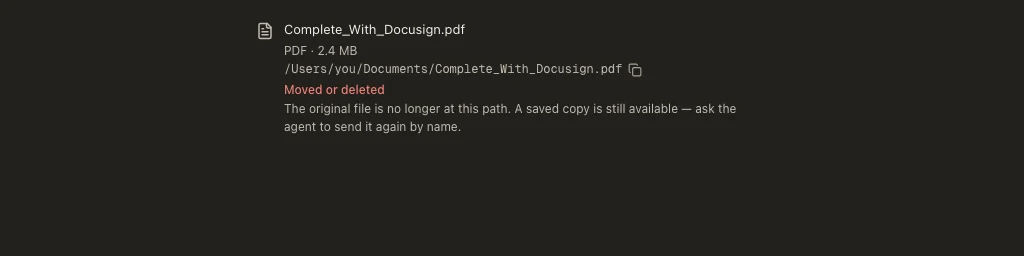
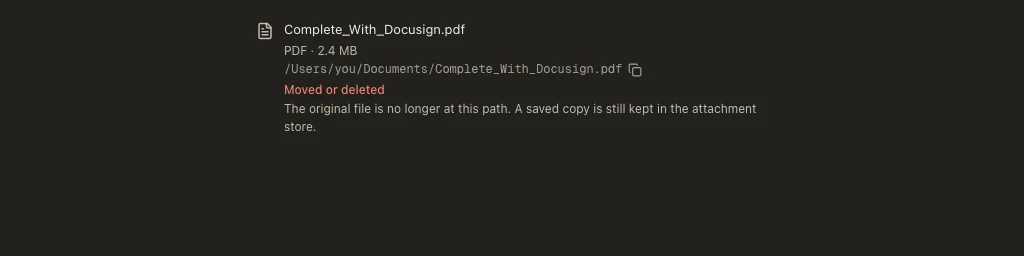
docs(evidence): refresh the missing-state frames for PR 1357
The missing state now copies the saved copy's store path when the row carries
one, and renders no copy control when it does not. Both halves are framed, light
and dark, plus the unchanged recovery wording.

diff --git a/docs/pr-evidence/composer-attachments/README.md b/docs/pr-evidence/composer-attachments/README.md
@@ -41,7 +41,11 @@ Story ids captured (light and dark unless noted):
   play, which stubs `navigator.clipboard.writeText` and asserts the full record
   value byte-for-byte)
 - `chat-sent-file-card--placement-unknown-no-claim`
-- `chat-sent-file-card--moved-or-deleted`
+- `chat-sent-file-card--moved-or-deleted` (the row carries a store path, so the
+  missing state's copy control copies the SAVED copy's path, labelled
+  "Copy saved copy path")
+- `chat-sent-file-card--moved-or-deleted-no-stored-path` (an older/remote row
+  with no store path: no copy control at all, never a control for the dead path)
 - `chat-canonical-user-card-measure--file-attachment`
 
 ## Before state
@@ -83,3 +87,7 @@ about a send.
 - **The answer path** (`--attach-prompt` / `--attach-expect-answer`) needs that
   route plus a provider that can answer. The scene refuses rather than reporting
   a staged-only pass when the send cannot be admitted.
+
+The missing state's recovery sentence names only what is true: the original file
+is gone from that path and the attachment store still keeps a saved copy. It does
+not promise that the agent can resend it — the card cannot make that happen.
